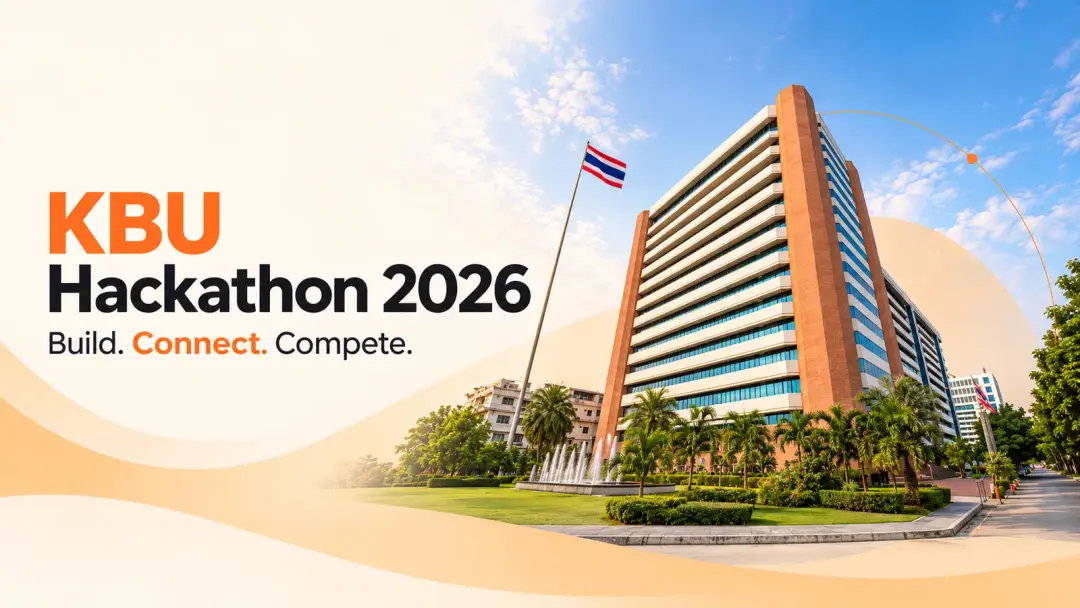
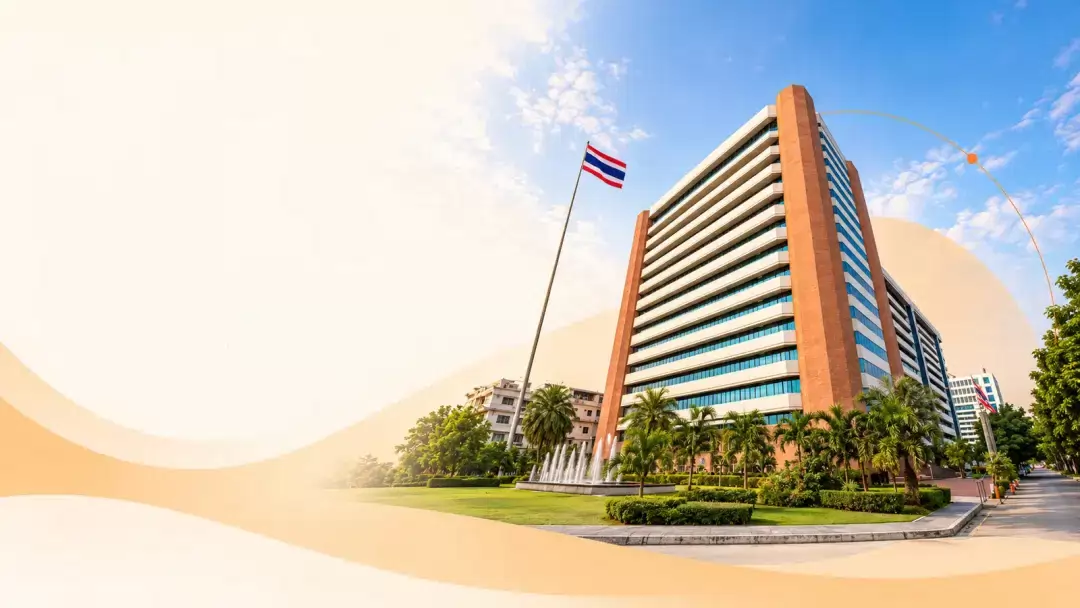
fix: update homepage event poster asset

Changed region(s): [[0.0306, 0.3125, 0.4889, 0.5938]]

diff --git a/app/(public)/_components/home-event.tsx b/app/(public)/_components/home-event.tsx
@@ -5,7 +5,6 @@ import type { EventSettingsDTO } from "@/lib/contracts/event-settings";
 import { getEventSettings } from "@/lib/data/event-settings";
 import type { Locale } from "@/lib/i18n/config";
 import { getMessages } from "@/lib/i18n/messages";
-import { isOwnedR2PublicUrl } from "@/lib/r2";
 import { HomeAuthAction } from "./home-auth-action";
 
 type RegistrationState = "open" | "not-started" | "closed" | "unavailable";
@@ -84,9 +83,7 @@ function EventFact({ label, value }: { label: string; value: string }) {
 export async function HomeHero({ locale }: { locale: Locale }) {
     const t = getMessages(locale);
     const event = await getEventSettings();
-    const eventImage = event?.imageUrls.find((url) => isOwnedR2PublicUrl(url, "uploads/events"));
     const registrationState = registrationStateFrom(event);
-    const posterSrc = eventImage ?? "/images/kbu1.webp";
 
     return (
         <section className="relative text-foreground">
@@ -126,7 +123,7 @@ export async function HomeHero({ locale }: { locale: Locale }) {
                         <div className="relative border-2 border-border bg-background p-2.5">
                             <div className="relative aspect-16/10 overflow-hidden bg-secondary">
                                 <Image
-                                    src={posterSrc}
+                                    src="/images/kbu.webp"
                                     alt={event?.title ?? "KBU Hackathon 2026 event poster"}
                                     fill
                                     className="object-cover"
